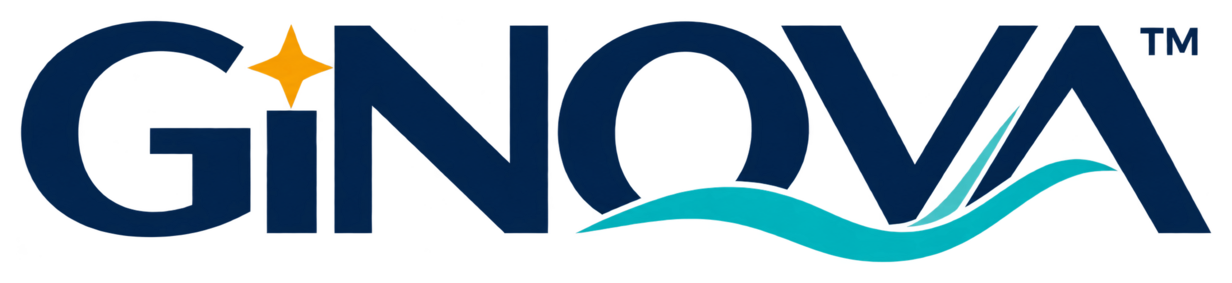
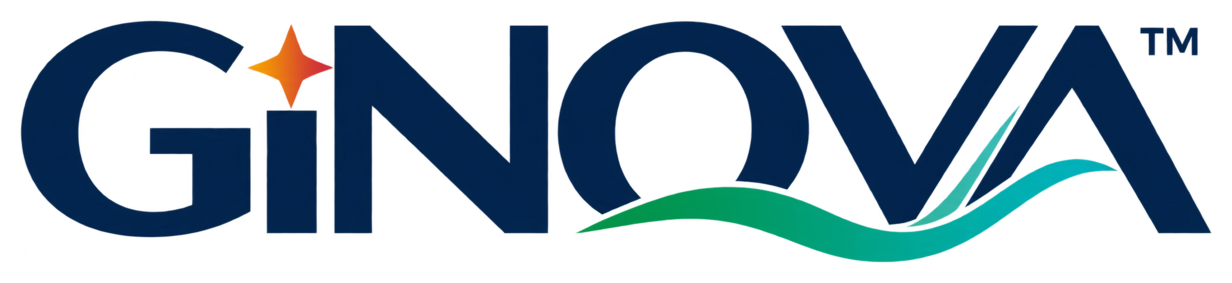
Refine portal wordmark gradients and header spacing

Changed region(s): [[0.4627, 0.6219, 0.8019, 0.9329], [0.2159, 0.1131, 0.2776, 0.3675]]

diff --git a/assets/owner-redesign-20261012/owner.css b/assets/owner-redesign-20261012/owner.css
@@ -260,3 +260,11 @@ body[data-gn-site="portal"]:has(.portal-stage)>header .gn-owner-wording-stack .b
   }
 }
 
+/* Owner adjustment: lift only the portal emblem; reserve its existing layout. */
+body[data-gn-site="portal"]:has(.portal-stage)>header .ginova-crest-frame {
+  transform:translateY(-2px);
+}
+/* Bring the portal wordmark 1px closer to its motto without moving the motto. */
+body[data-gn-site="portal"]:has(.portal-stage)>header .gn-owner-wording-stack .ginova-wordmark-frame {
+  transform:translateY(1px);
+}
